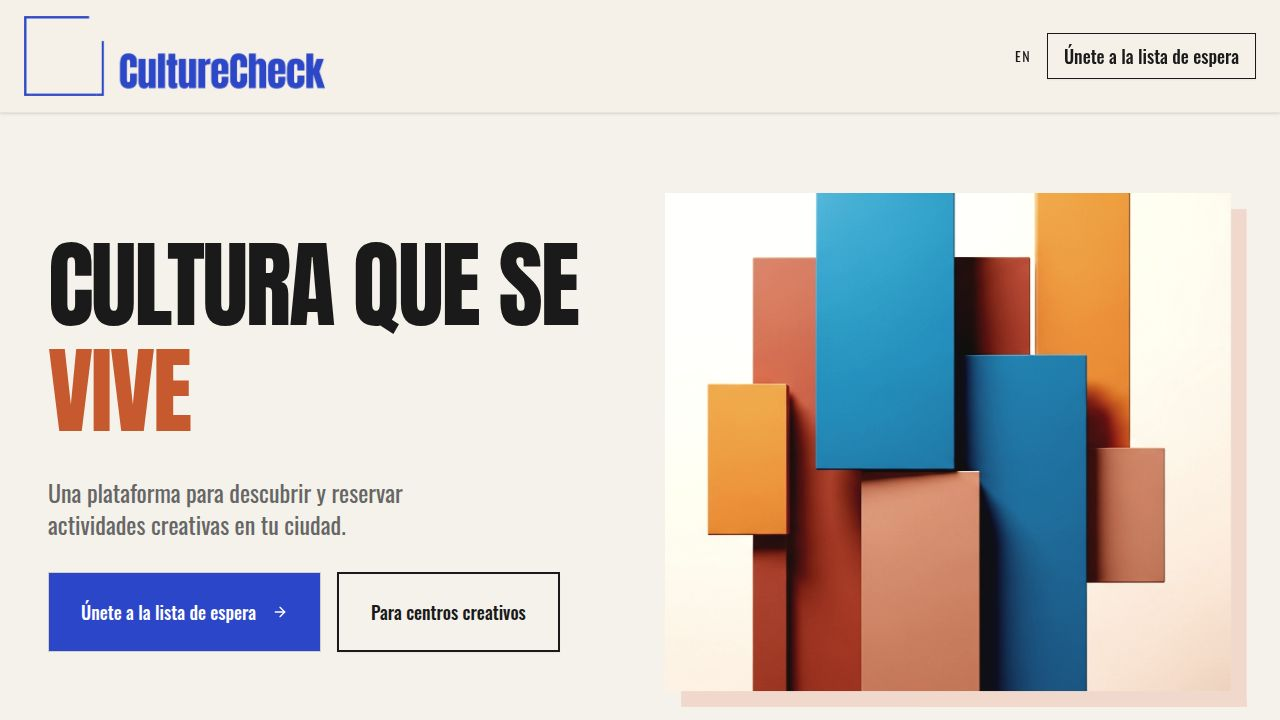
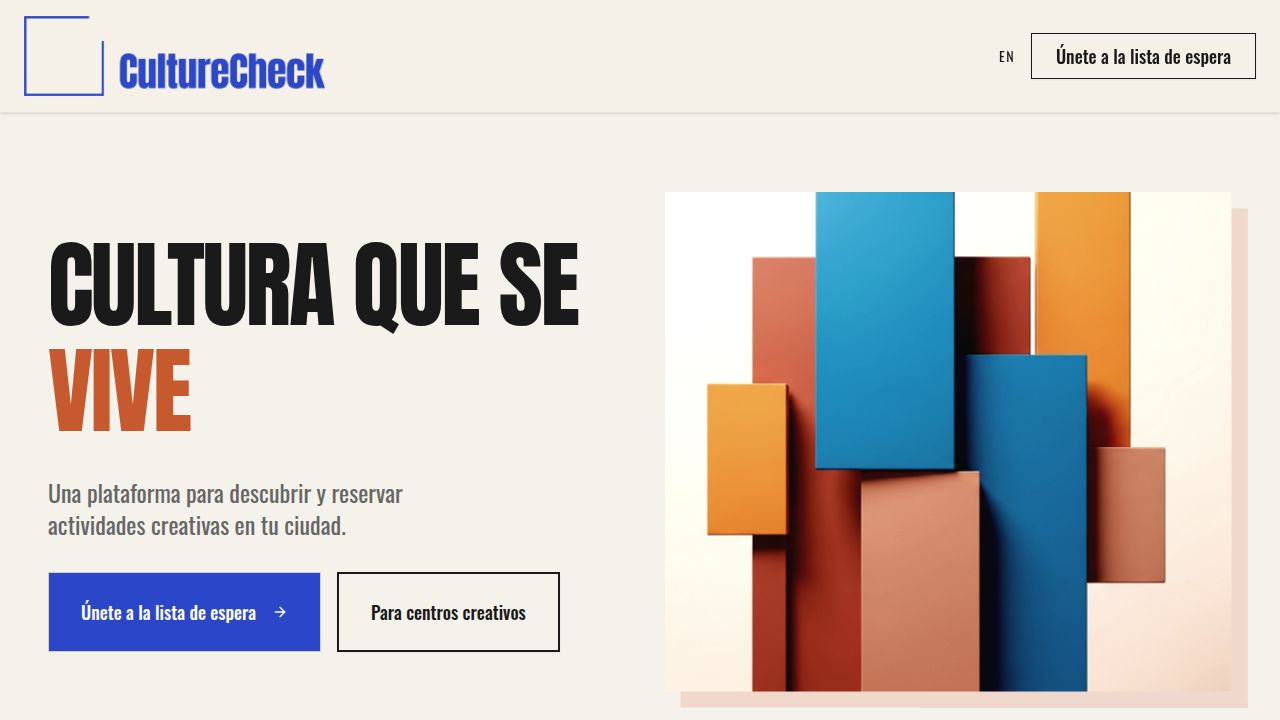
Improve mobile header layout and responsiveness
Update navigation bar styling to ensure logo scales correctly and language switch remains visible on mobile devices, using flexbox for responsive adjustments.

Replit-Commit-Author: Agent
Replit-Commit-Session-Id: bd1b7c08-484c-4837-9868-8ca99b3dfac3
Replit-Commit-Checkpoint-Type: full_checkpoint
Replit-Commit-Event-Id: f1bfaf23-4a21-40a1-acb0-cb4edf7476df
Replit-Commit-Screenshot-Url: https://storage.googleapis.com/screenshot-production-us-central1/9532ab90-1a89-4eb9-afa0-3acbb4650984/bd1b7c08-484c-4837-9868-8ca99b3dfac3/dezznf3
Replit-Helium-Checkpoint-Created: true

Changed region(s): [[0.7812, 0.0611, 0.9688, 0.0917], [0.5625, 0.7333, 0.5938, 0.7639]]

diff --git a/client/src/pages/Home.tsx b/client/src/pages/Home.tsx
@@ -158,18 +158,18 @@ export default function Home() {
   return (
     <div className="min-h-screen bg-background text-foreground overflow-hidden selection:bg-primary selection:text-white">
       {/* Navigation */}
-      <nav className="fixed top-0 left-0 right-0 z-50 px-6 py-4 flex justify-between items-center bg-[#F5F1E8] border-b border-muted shadow-sm">
-        <div className="h-12 md:h-16 lg:h-20 flex items-center">
-          <img src={logoImage} alt="CultureCheck Logo" className="h-full w-auto object-contain" />
+      <nav className="fixed top-0 left-0 right-0 z-50 px-4 md:px-6 py-3 md:py-4 flex justify-between items-center bg-[#F5F1E8] border-b border-muted shadow-sm">
+        <div className="flex-shrink-0 h-8 sm:h-10 md:h-16 lg:h-20 flex items-center min-w-0">
+          <img src={logoImage} alt="CultureCheck Logo" className="h-full w-auto object-contain max-w-[140px] sm:max-w-[180px] md:max-w-none" />
         </div>
-        <div className="flex items-center gap-4">
+        <div className="flex items-center gap-2 sm:gap-4 flex-shrink-0">
           <button 
             onClick={() => setLang(lang === "en" ? "es" : "en")}
             className="font-subheading text-sm uppercase tracking-widest hover:text-primary transition-colors"
           >
             {lang === "en" ? "ES" : "EN"}
           </button>
-          <Button variant="outline" className="font-subheading text-lg rounded-none border-foreground hover:bg-foreground hover:text-background transition-colors">
+          <Button variant="outline" className="font-subheading text-xs sm:text-sm md:text-lg rounded-none border-foreground hover:bg-foreground hover:text-background transition-colors px-3 sm:px-4 md:px-6 py-1.5 sm:py-2 whitespace-nowrap">
             {t.nav.cta}
           </Button>
         </div>
